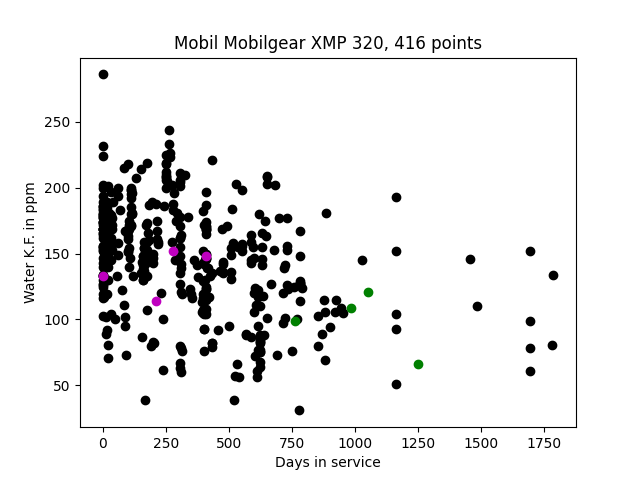
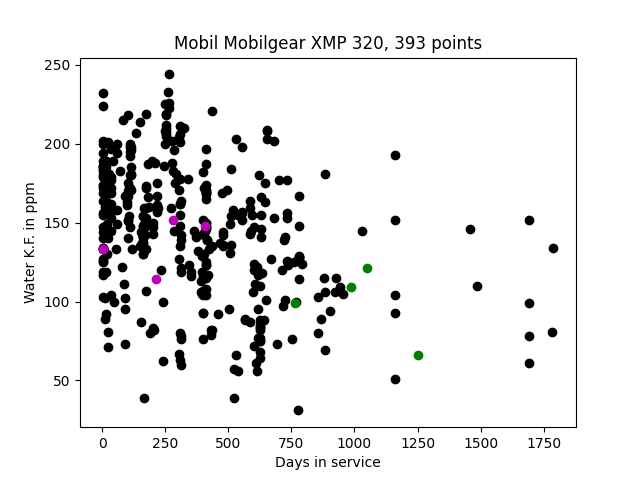
Sep 20, 2022, 5:43 PM

diff --git a/project/dataset.py b/project/dataset.py
@@ -400,9 +400,10 @@ class Dataset:
                                                     row["Datum Probenentnahme"],
                                                     row["Datum letzter Ölwechsel"],
                                                 )
-                                                x2.append(days_service)
-                                                y2.append(float(row[param]))
-                                                j += 1
+                                                if days_service > 0 and len(row[param]) > 0:
+                                                    x2.append(days_service)
+                                                    y2.append(float(row[param]))
+                                                    j += 1
                                         elif len(row["Einfülltage"]) > 0:
                                             x2.append(int(row["Einfülltage"]))
                                             y2.append(float(row[param]))
@@ -425,9 +426,10 @@ class Dataset:
                                                 row["Datum Probenentnahme"],
                                                 row["Datum letzter Ölwechsel"],
                                             )
-                                            x3.append(days_service)
-                                            y3.append(float(row[param]))
-                                            j += 1
+                                            if days_service > 0 and len(row[param]) > 0:
+                                                x3.append(days_service)
+                                                y3.append(float(row[param]))
+                                                j += 1
                                     elif len(row["Einfülltage"]) > 0:
                                         x3.append(int(row["Einfülltage"]))
                                         y3.append(float(row[param]))
@@ -448,9 +450,10 @@ class Dataset:
                                                 (data[i])["Datum Probenentnahme"],
                                                 (data[i])["Datum letzter Ölwechsel"],
                                             )
-                                            x1.append(days_service)
-                                            y1.append(float(row[param]))
-                                            j += 1
+                                            if days_service > 0 and len(row[param]) > 0:
+                                                x1.append(days_service)
+                                                y1.append(float(row[param]))
+                                                j += 1
                                     elif len(row["Einfülltage"]) > 0:
                                         x1.append(int(row["Einfülltage"]))
                                         y1.append(float(row[param]))
@@ -479,8 +482,9 @@ class Dataset:
                                         (data[i])["Datum Probenentnahme"],
                                         (data[i])["Datum letzter Ölwechsel"],
                                     )
-                                    x1.append(days_service)
-                                    y1.append(float((data[i])[param]))
+                                    if days_service > 0 and len(row[param]) > 0:
+                                        x1.append(days_service)
+                                        y1.append(float((data[i])[param]))
                             elif len(row["Einfülltage"]) > 0:
                                 x1.append(int((data[i])["Einfülltage"]))
                                 y1.append(float((data[i])[param]))
